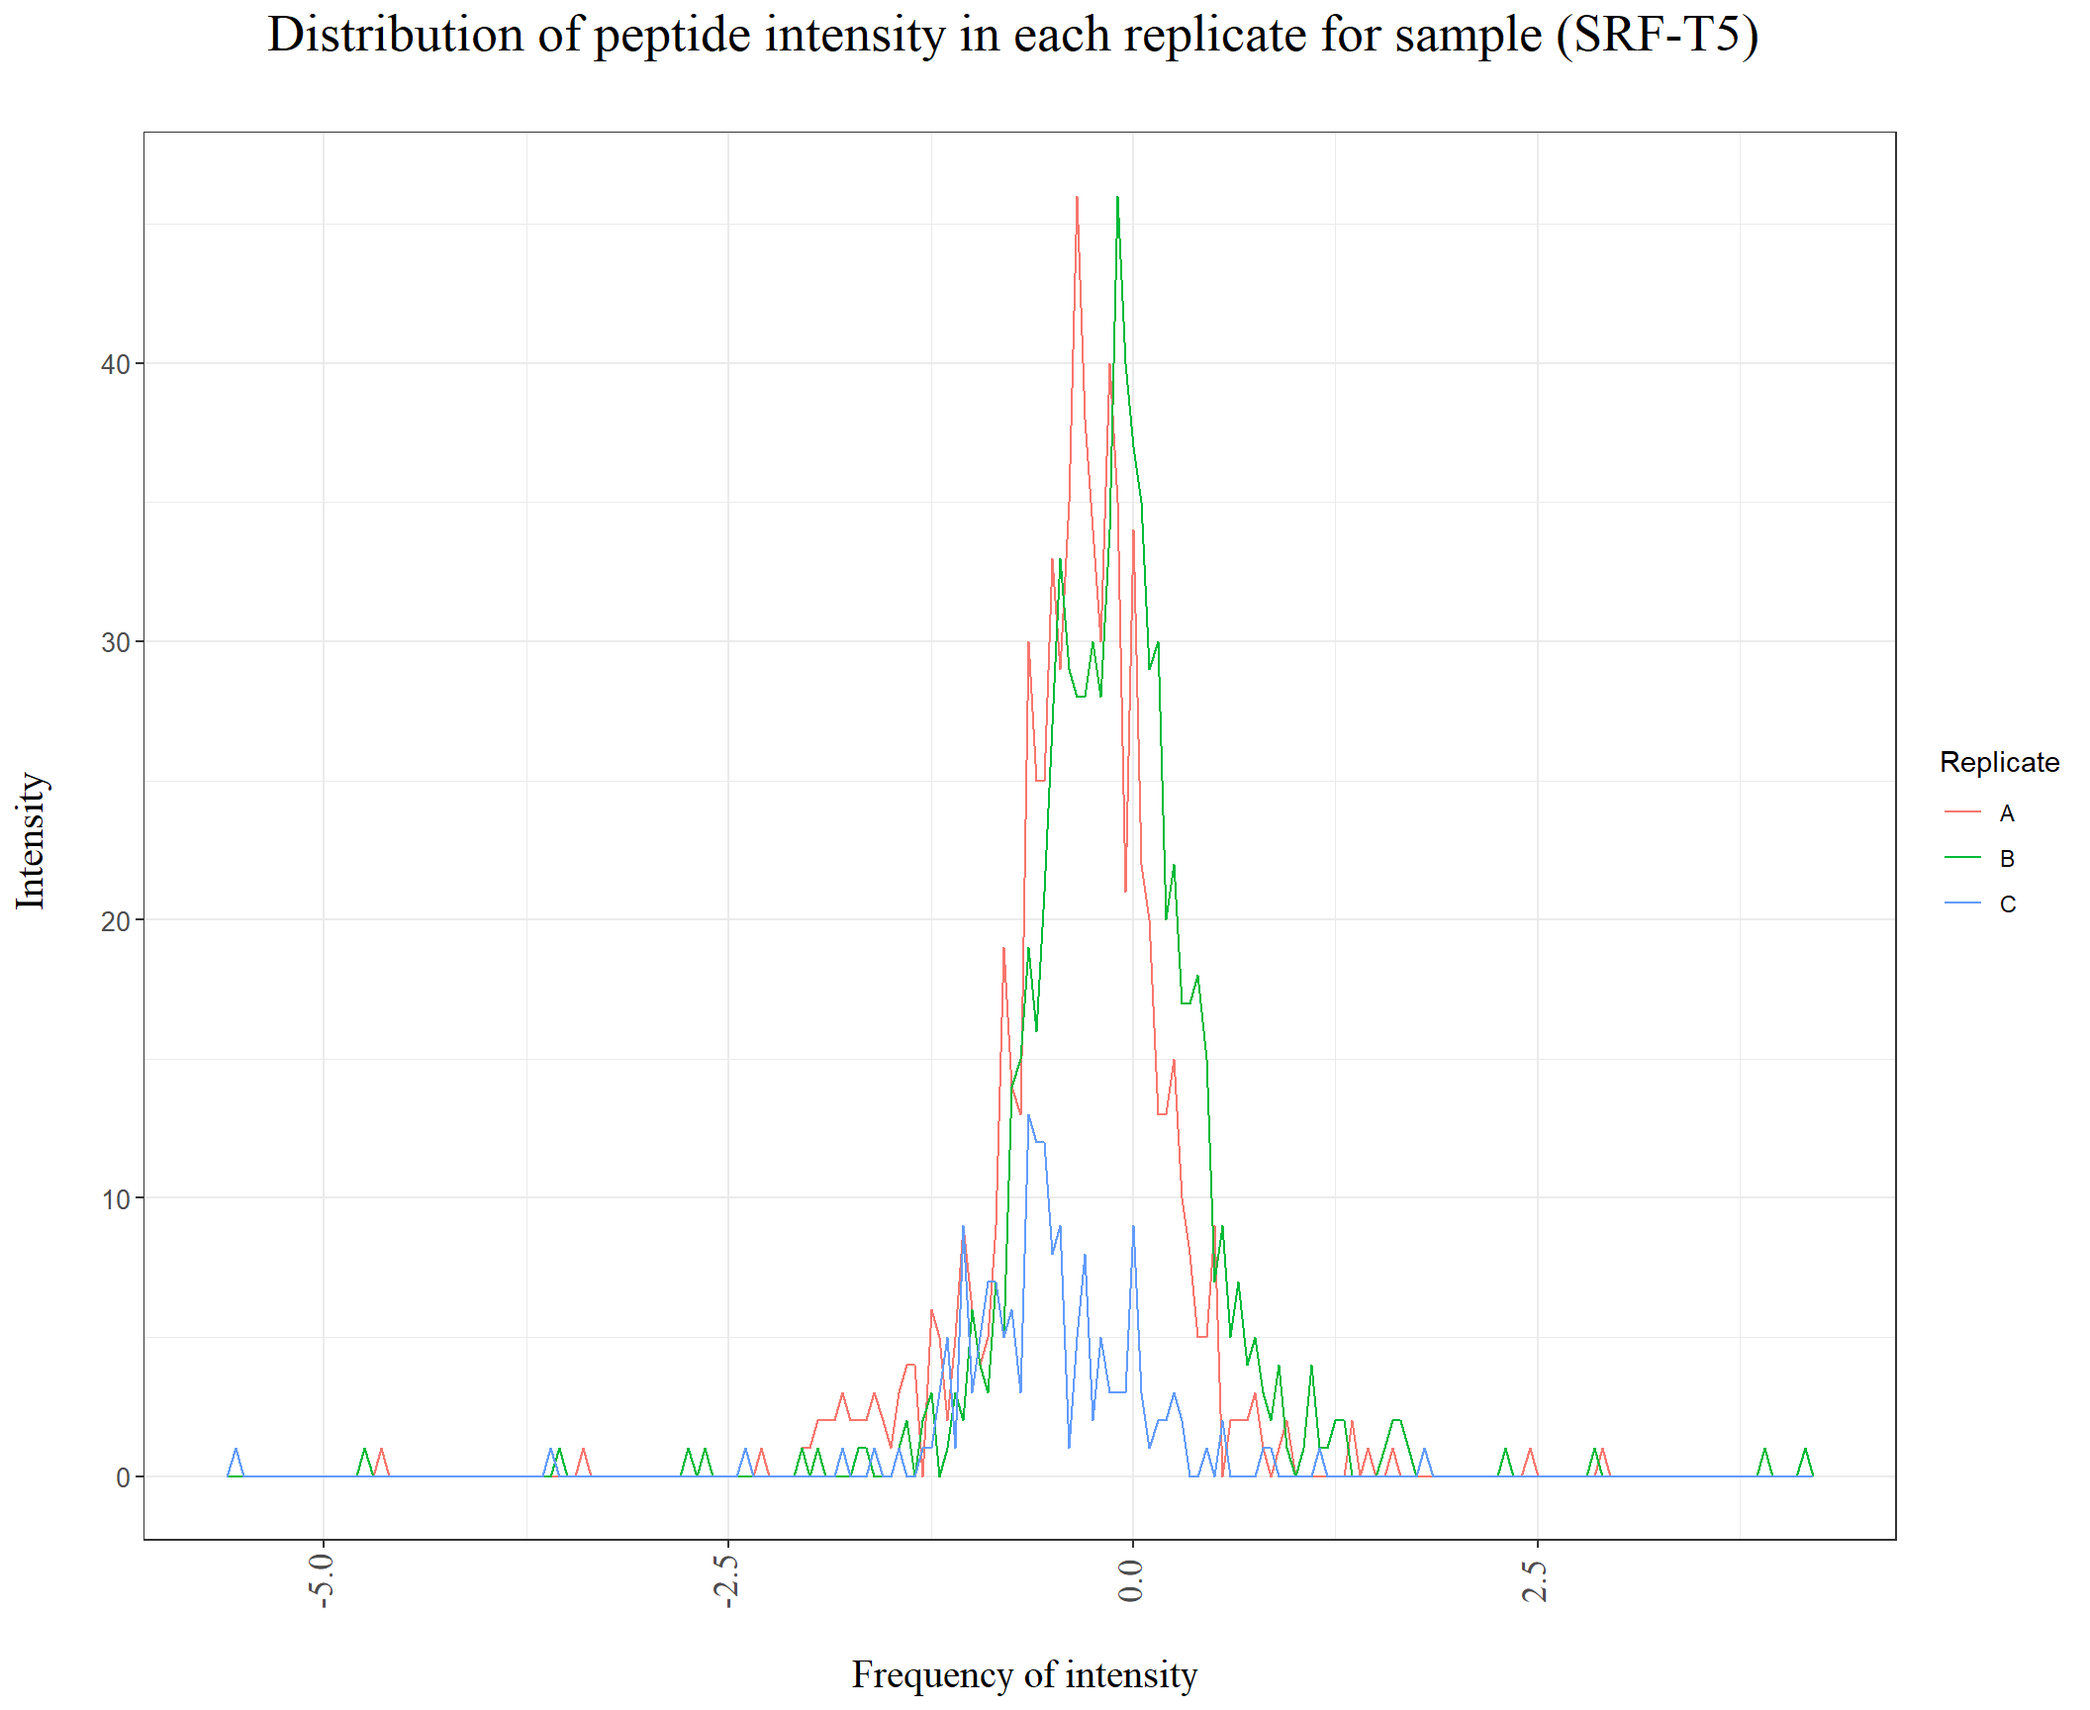
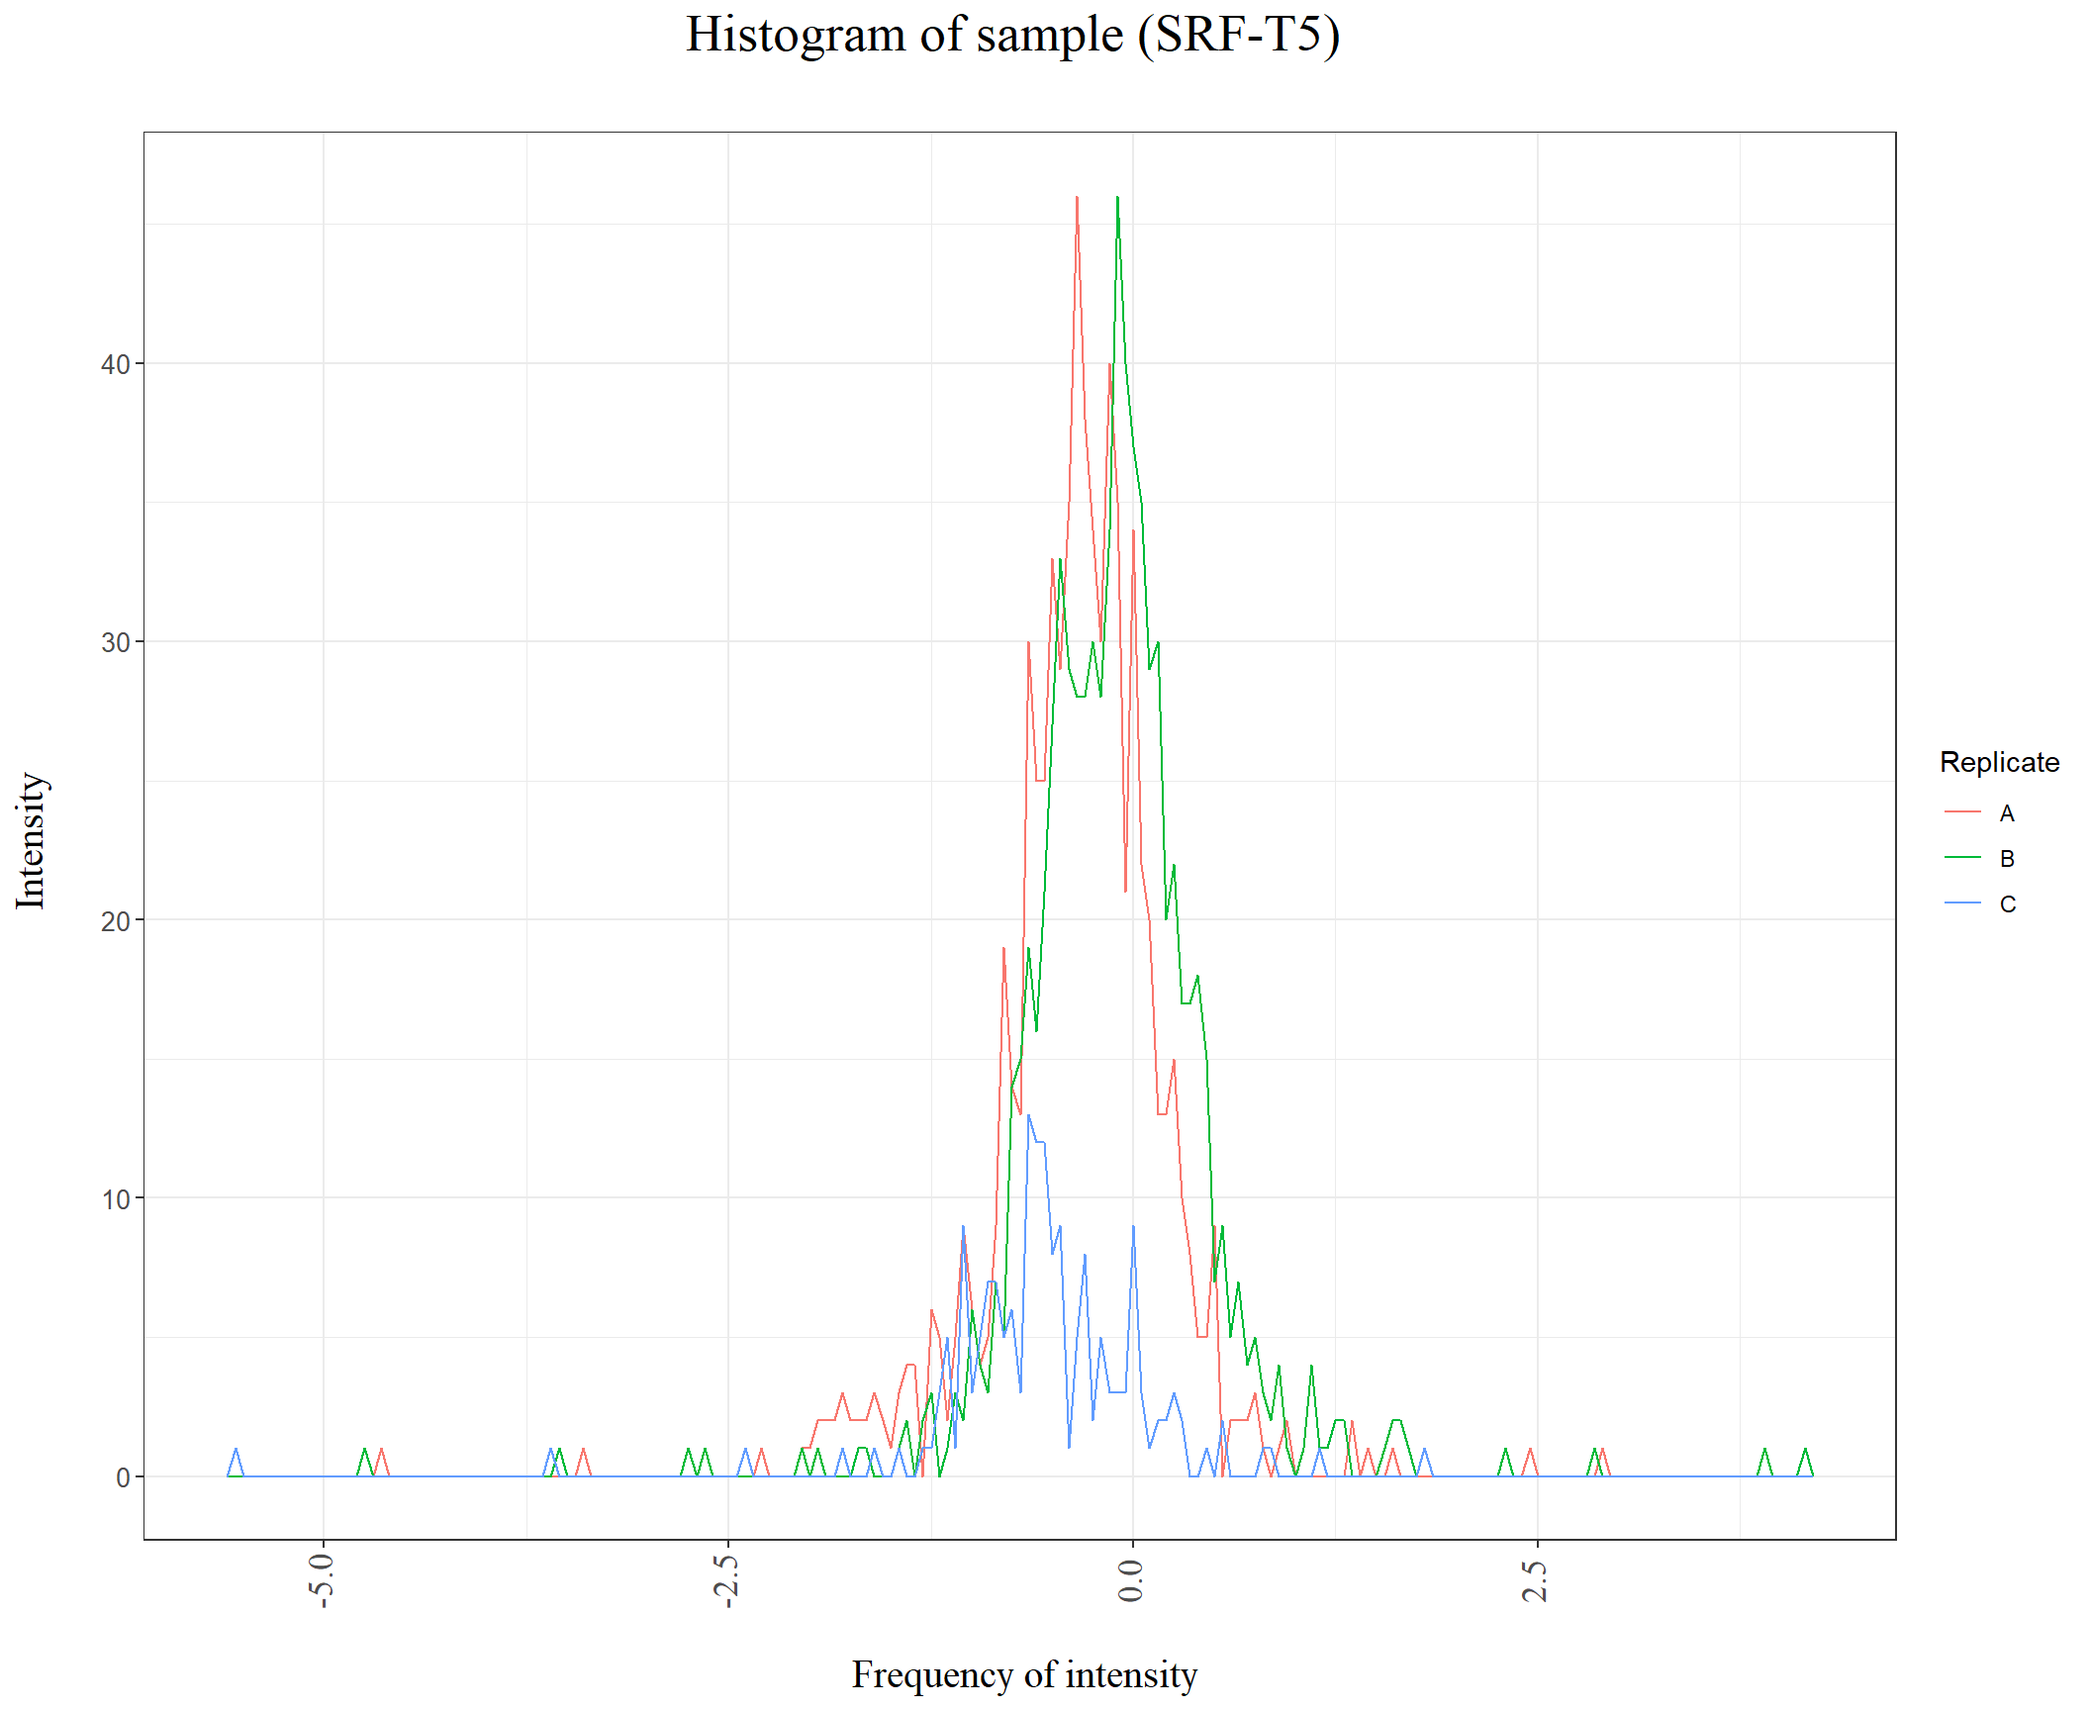
Build site.

Changed region(s): [[0.125, 0.0, 0.8438, 0.0312]]

diff --git a/docs/peptide_level_visualization.html b/docs/peptide_level_visualization.html
@@ -473,16 +473,16 @@ This reproducible <a href="http://rmarkdown.rstudio.com">R Markdown</a> analysis
 <div class="panel panel-default">
 <div class="panel-heading">
 <p class="panel-title">
-<a data-toggle="collapse" data-parent="#workflowr-checks" href="#strongRepositoryversionstrongahrefhttpsgithubcomKiseokUchicagoBHDieltree7f223a8f8561ef76901926468a4d13e2f6bcda7btargetblank7f223a8a"> <span class="glyphicon glyphicon-ok text-success" aria-hidden="true"></span> <strong>Repository version:</strong> <a href="https://github.com/KiseokUchicago/BH_Diel/tree/7f223a8f8561ef76901926468a4d13e2f6bcda7b" target="_blank">7f223a8</a> </a>
+<a data-toggle="collapse" data-parent="#workflowr-checks" href="#strongRepositoryversionstrongahrefhttpsgithubcomKiseokUchicagoBHDieltree2a8d1baa0753a5fb1ce13c40005b1787bc4fbab4targetblank2a8d1baa"> <span class="glyphicon glyphicon-ok text-success" aria-hidden="true"></span> <strong>Repository version:</strong> <a href="https://github.com/KiseokUchicago/BH_Diel/tree/2a8d1baa0753a5fb1ce13c40005b1787bc4fbab4" target="_blank">2a8d1ba</a> </a>
 </p>
 </div>
[2 lines of base64/hex data omitted]
 <div class="panel-body">
 <p>
 Great! You are using Git for version control. Tracking code development and connecting the code version to the results is critical for reproducibility.
 </p>
 <p>
-The results in this page were generated with repository version <a href="https://github.com/KiseokUchicago/BH_Diel/tree/7f223a8f8561ef76901926468a4d13e2f6bcda7b" target="_blank">7f223a8</a>. See the <em>Past versions</em> tab to see a history of the changes made to the R Markdown and HTML files.
+The results in this page were generated with repository version <a href="https://github.com/KiseokUchicago/BH_Diel/tree/2a8d1baa0753a5fb1ce13c40005b1787bc4fbab4" target="_blank">2a8d1ba</a>. See the <em>Past versions</em> tab to see a history of the changes made to the R Markdown and HTML files.
 </p>
 <p>
 Note that you need to be careful to ensure that all relevant files for the analysis have been committed to Git prior to generating the results (you can use <code>wflow_publish</code> or <code>wflow_git_commit</code>). workflowr only checks the R Markdown file, but you know if there are other scripts or data files that it depends on. Below is the status of the Git repository when the results were generated:
@@ -620,6 +620,7 @@ Untracked files:
     Untracked:  63_IPTL-CyanoSUMI-MI41M-18OMix-16O-C-T8-SRF_filtered_PSMs.tsv
     Untracked:  63_IPTL-CyanoSUMI-MI41M-18OMix-16O-C-T8-SRF_filtered_PSMs.xlsx
     Untracked:  Hist_freq_of_peptide_id.pdf
+    Untracked:  Hist_intensity_replicate.pdf
     Untracked:  Hist_number of timepoints_peptide_appears.pdf
     Untracked:  P1_number_unique_peptide_per_sample.pdf
     Untracked:  P2_number_of_cumulative_unique_peptides.pdf
@@ -679,6 +680,40 @@ Message
 </tr>
 </thead>
 <tbody>
+<tr>
+<td>
+Rmd
+</td>
+<td>
+<a href="https://github.com/KiseokUchicago/BH_Diel/blob/2a8d1baa0753a5fb1ce13c40005b1787bc4fbab4/analysis/peptide_level_visualization.Rmd" target="_blank">2a8d1ba</a>
+</td>
+<td>
+KiseokUchicago
+</td>
+<td>
+2021-03-04
+</td>
+<td>
+grid
+</td>
+</tr>
+<tr>
+<td>
+html
+</td>
+<td>
+<a href="https://rawcdn.githack.com/KiseokUchicago/BH_Diel/f77b37f32a9ff55d40ef7d579a5cfc42f19c2c21/docs/peptide_level_visualization.html" target="_blank">f77b37f</a>
+</td>
+<td>
+KiseokUchicago
+</td>
+<td>
+2021-03-04
+</td>
+<td>
+Build site.
+</td>
+</tr>
 <tr>
 <td>
 Rmd
@@ -1393,7 +1428,7 @@ p1</code></pre>
 <p><img src="figure/peptide_level_visualization.Rmd/unnamed-chunk-3-1.png" width="1056" style="display: block; margin: auto;" /> It seems to saturate as more samples are added.</p>
 </div>
 <div id="which-peptide_ids-are-present-in-allalmost-time-points" class="section level3">
-<h3>3.1. Which Peptide_ids are present in all(almost) time points?</h3>
+<h3>3. Which Peptide_ids are present in all(almost) time points?</h3>
 <p>Make a histogram of x-axis being the # of time points present, y-axis being the number of Peptide_ids<br />
 We need 3 histogram for (1) Surface, (2) DCL, and (3) BDCL</p>
 <pre class="r"><code># read in combined table of 24 samples (Replicate B)
@@ -2689,7 +2724,7 @@ Iteration 10: Changes / Distsum = 1 / 512.1642
     DBA Iteration: 1, 2, 3 - Converged!
 Iteration 11: Changes / Distsum = 0 / 512.1043
 
-    Elapsed time is 1.86 seconds.</code></pre>
+    Elapsed time is 2.08 seconds.</code></pre>
 <pre class="r"><code>internal_CVI(pc_dtw, &quot;Partial clustering with DTW distance&quot;)</code></pre>
 <pre><code>    DBA Iteration: 1, 2, 3, 4, 5, 6, 7, 8, 9, 10,
          11, 12 - Converged!
@@ -2749,7 +2784,7 @@ Iteration 6: Changes / Distsum = 6 / 596.5909
     DBA Iteration: 1, 2 - Converged!
 Iteration 7: Changes / Distsum = 0 / 596.7076
 
-    Elapsed time is 0.1 seconds.</code></pre>
+    Elapsed time is 0.11 seconds.</code></pre>
 <pre class="r"><code>pc_dtw5 &lt;- tsclust(l_SRF8_z, k = 5L,
   distance = &quot;dtw_basic&quot;, centroid = &quot;dba&quot;,
   trace = TRUE, seed = 8,
@@ -2802,7 +2837,7 @@ Iteration 8: Changes / Distsum = 1 / 570.2049
     DBA Iteration: 1, 2, 3 - Converged!
 Iteration 9: Changes / Distsum =  0 / 570.166
 
-    Elapsed time is 0.15 seconds.</code></pre>
+    Elapsed time is 0.14 seconds.</code></pre>
 <pre class="r"><code>pc_dtw7 &lt;- tsclust(l_SRF8_z, k = 7L,
   distance = &quot;dtw_basic&quot;, centroid = &quot;dba&quot;,
   trace = TRUE, seed = 8,
@@ -2900,7 +2935,7 @@ Iteration 14: Changes / Distsum = 2 / 546.6194
     DBA Iteration: 1, 2, 3 - Converged!
 Iteration 15: Changes / Distsum = 0 / 546.5289
 
-    Elapsed time is 0.21 seconds.</code></pre>
+    Elapsed time is 0.22 seconds.</code></pre>
 <pre class="r"><code># Prototypes for 4 clusters
 plot(pc_dtw4)</code></pre>
 <p><img src="figure/peptide_level_visualization.Rmd/unnamed-chunk-15-2.png" width="1056" style="display: block; margin: auto;" /></p>
@@ -3744,7 +3779,7 @@ Iteration 9: Changes / Distsum = 1 / 511.7074
     DBA Iteration: 1, 2 - Converged!
 Iteration 10: Changes / Distsum =  0 / 511.633
 
-    Elapsed time is 2.58 seconds.</code></pre>
+    Elapsed time is 2.55 seconds.</code></pre>
 <pre class="r"><code>internal_CVI(pc_dtwlb, &quot;Partial clustering with DTW_lb distance&quot;)</code></pre>
 <pre><code>    DBA Iteration: 1, 2, 3, 4, 5, 6, 7, 8, 9, 10,
          11, 12 - Converged!
@@ -4029,7 +4064,7 @@ Iteration 14: Changes / Distsum = 2 / 44.10935
 Iteration 15: Changes / Distsum = 2 / 44.09725
 Iteration 16: Changes / Distsum = 0 / 44.09232
 
-    Elapsed time is 6.42 seconds.</code></pre>
+    Elapsed time is 6.2 seconds.</code></pre>
 <pre class="r"><code>internal_CVI(pc_ks, &quot;Partial clustering with k-shape method&quot;)</code></pre>
 <p><img src="figure/peptide_level_visualization.Rmd/unnamed-chunk-17-1.png" width="1056" style="display: block; margin: auto;" /></p>
 <pre class="r"><code># use 3 or 4 clusters
@@ -4051,7 +4086,7 @@ Iteration 12: Changes / Distsum = 4 / 69.30983
 Iteration 13: Changes / Distsum = 1 / 69.29236
 Iteration 14: Changes / Distsum =  0 / 69.2913
 
-    Elapsed time is 0.65 seconds.</code></pre>
+    Elapsed time is 0.64 seconds.</code></pre>
 <pre class="r"><code>pc_ks4 &lt;- tsclust(l_SRF8_z, k = 4L,
   distance = &quot;sbd&quot;, centroid = &quot;shape&quot;,
   seed = 8, trace = TRUE)</code></pre>
@@ -4089,7 +4124,7 @@ Iteration 31: Changes / Distsum = 2 / 61.02398
 Iteration 32: Changes / Distsum = 1 / 61.01079
 Iteration 33: Changes / Distsum = 0 / 61.00639
 
-    Elapsed time is 1.47 seconds.</code></pre>
+    Elapsed time is 1.45 seconds.</code></pre>
 <pre class="r"><code>pc_ks5 &lt;- tsclust(l_SRF8_z, k = 5L,
   distance = &quot;sbd&quot;, centroid = &quot;shape&quot;,
   seed = 8, trace = TRUE)</code></pre>
@@ -4117,7 +4152,7 @@ Iteration 21: Changes / Distsum =  5 / 57.9328
 Iteration 22: Changes / Distsum = 2 / 57.88911
 Iteration 23: Changes / Distsum = 0 / 57.87923
 
-    Elapsed time is 1.07 seconds.</code></pre>
+    Elapsed time is 1.02 seconds.</code></pre>
 <pre class="r"><code># Prototypes for 3 clusters
 plot(pc_ks3)</code></pre>
 <p><img src="figure/peptide_level_visualization.Rmd/unnamed-chunk-17-2.png" width="1056" style="display: block; margin: auto;" /></p>
@@ -4156,7 +4191,7 @@ TADPole completed for k = 8 &amp; dc = 1.5
 TADPole completed for k = 9 &amp; dc = 1.5
 TADPole completed for k = 10 &amp; dc = 1.5
 
-    Elapsed time is 0.39 seconds.</code></pre>
+    Elapsed time is 0.36 seconds.</code></pre>
 <pre class="r"><code>internal_CVI(pc_tp, &quot;Partial clustering with Tadpole method&quot;)</code></pre>
 <p><img src="figure/peptide_level_visualization.Rmd/unnamed-chunk-18-1.png" width="1056" style="display: block; margin: auto;" /></p>
 <pre class="r"><code># use 8 clusters
@@ -4176,7 +4211,7 @@ Performing cluster assignment
 
 TADPole completed for k = 8 &amp; dc = 1.5
 
-    Elapsed time is 0.3 seconds.</code></pre>
+    Elapsed time is 0.28 seconds.</code></pre>
 <pre class="r"><code># Prototypes for 8 clusters
 plot(pc_tp8)</code></pre>
 <p><img src="figure/peptide_level_visualization.Rmd/unnamed-chunk-18-2.png" width="1056" style="display: block; margin: auto;" /></p>
@@ -4800,12 +4835,12 @@ P.135 0.008200168     2          6      8 0.9942119</code></pre>
 hist_intensity &lt;- function(depth=&quot;SRF&quot;,time=&quot;T1&quot;){
   df_ave_SRF_T1 &lt;- df_ave %&gt;% filter(Time==time &amp; Depth ==depth)
   theme_set(theme_bw())
-  ggplot(df_ave_SRF_T1, aes(x=log2_Mean_intensity)) +
+  h1 &lt;- ggplot(df_ave_SRF_T1, aes(x=log2_Mean_intensity)) +
     geom_freqpoly(binwidth = 0.05, aes(color=Replicate)) +
     scale_fill_brewer(palette=&#39;Set2&#39;) +
     ylab(&quot;Intensity \n&quot;) +
     xlab(&quot;\n Frequency of intensity&quot;) +
-    ggtitle(paste0(&quot;Distribution of peptide intensity in each replicate for sample (&quot;,depth,&quot;-&quot;,time,&quot;) \n&quot;))+
+    ggtitle(paste0(&quot;Histogram of sample (&quot;,depth,&quot;-&quot;,time,&quot;) \n&quot;))+
     ## adjust positions
     theme(plot.title = element_text(size = 20,hjust = 0.5, family=&quot;serif&quot;)) + 
     theme(axis.title.x = element_text(size = 15,hjust = 0.5, family=&quot;serif&quot;)) + 
@@ -4814,6 +4849,7 @@ hist_intensity &lt;- function(depth=&quot;SRF&quot;,time=&quot;T1&quot;){
     theme(axis.text.y = element_text(size=10))
     # theme(panel.grid.major = element_blank())
     # theme(panel.grid.minor = element_blank()) 
+  return(h1)
 }
 
 hist_intensity(depth=&quot;SRF&quot;,time=&quot;T1&quot;)</code></pre>
@@ -4832,6 +4868,27 @@ hist_intensity(depth=&quot;SRF&quot;,time=&quot;T1&quot;)</code></pre>
 <p><img src="figure/peptide_level_visualization.Rmd/unnamed-chunk-20-7.png" width="1056" style="display: block; margin: auto;" /></p>
 <pre class="r"><code>hist_intensity(depth=&quot;SRF&quot;,time=&quot;T8&quot;)</code></pre>
 <p><img src="figure/peptide_level_visualization.Rmd/unnamed-chunk-20-8.png" width="1056" style="display: block; margin: auto;" /></p>
+<pre class="r"><code># draw histogram in multigrids
+library(gridExtra)
+paste0(&quot;T&quot;,1L:8L)</code></pre>
+<pre><code>[1] &quot;T1&quot; &quot;T2&quot; &quot;T3&quot; &quot;T4&quot; &quot;T5&quot; &quot;T6&quot; &quot;T7&quot; &quot;T8&quot;</code></pre>
+<pre class="r"><code>l &lt;- list()
+for (i in paste0(&quot;T&quot;,1L:8L)){
+  print(i)
+  l[[i]] &lt;- hist_intensity(depth=&quot;SRF&quot;,time=i)
+}</code></pre>
+<pre><code>[1] &quot;T1&quot;
+[1] &quot;T2&quot;
+[1] &quot;T3&quot;
+[1] &quot;T4&quot;
+[1] &quot;T5&quot;
+[1] &quot;T6&quot;
+[1] &quot;T7&quot;
+[1] &quot;T8&quot;</code></pre>
+<pre class="r"><code>length(l)</code></pre>
+<pre><code>[1] 8</code></pre>
+<pre class="r"><code>grid.arrange(grobs = l, ncol=3)</code></pre>
+<p><img src="figure/peptide_level_visualization.Rmd/unnamed-chunk-20-9.png" width="1056" style="display: block; margin: auto;" /></p>
 </div>
 <div id="archived-not-using-this-part" class="section level3">
 <h3>Archived: Not using this part</h3>
@@ -5050,13 +5107,13 @@ attached base packages:
 [8] base     
 
 other attached packages:
- [1] lattice_0.20-41     rain_1.24.0         multtest_2.46.0    
- [4] Biobase_2.50.0      BiocGenerics_0.36.0 gmp_0.6-2          
- [7] TSclust_1.3.1       cluster_2.1.0       pdc_1.0.3          
-[10] dtwclust_5.5.6      dtw_1.22-3          proxy_0.4-24       
-[13] maditr_0.7.4        data.table_1.14.0   formattable_0.2.1  
-[16] ggplot2_3.3.3       stringr_1.4.0       tidyr_1.1.2        
-[19] dplyr_1.0.4         workflowr_1.6.2    
+ [1] lattice_0.20-41     gridExtra_2.3       rain_1.24.0        
+ [4] multtest_2.46.0     Biobase_2.50.0      BiocGenerics_0.36.0
+ [7] gmp_0.6-2           TSclust_1.3.1       cluster_2.1.0      
+[10] pdc_1.0.3           dtwclust_5.5.6      dtw_1.22-3         
+[13] proxy_0.4-24        maditr_0.7.4        data.table_1.14.0  
+[16] formattable_0.2.1   ggplot2_3.3.3       stringr_1.4.0      
+[19] tidyr_1.1.2         dplyr_1.0.4         workflowr_1.6.2    
 
 loaded via a namespace (and not attached):
   [1] bigmemory_4.5.36        bigmemory.sri_0.1.3     colorspace_2.0-0       
